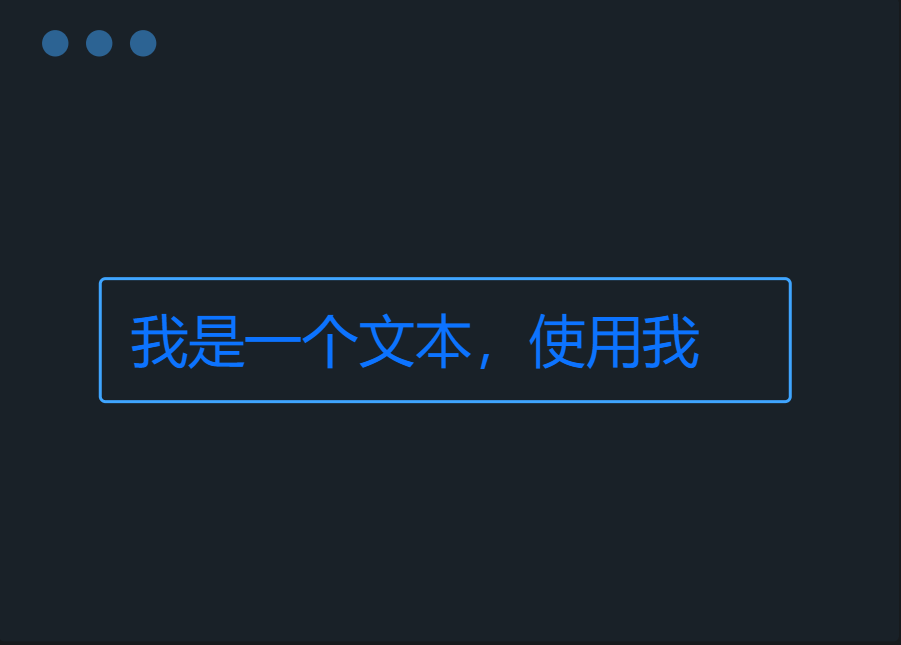
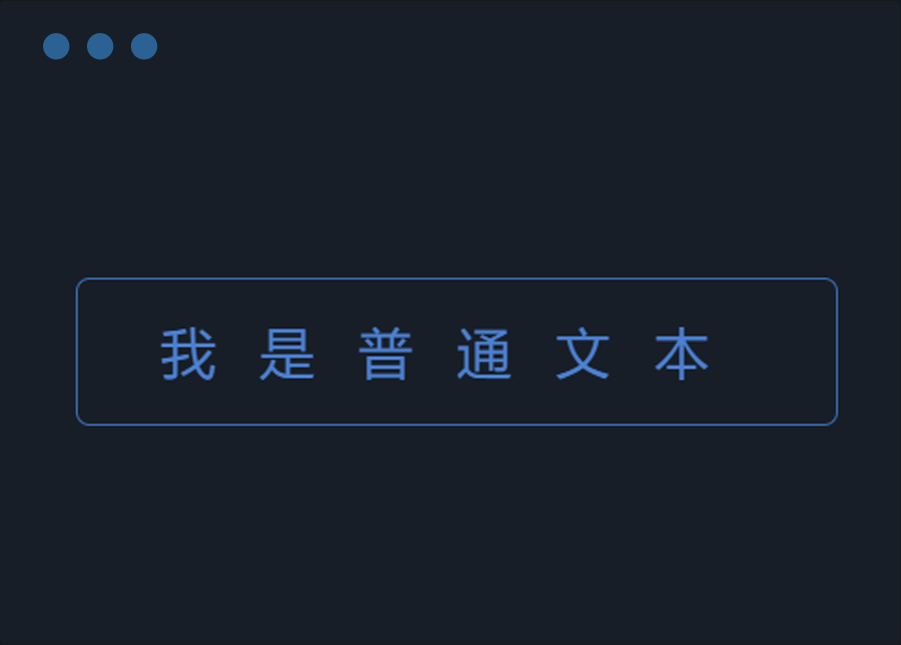
perf: 去除多余图片，修改展示图

Changed region(s): [[0.0622, 0.4031, 0.9323, 0.6822], [0.0622, 0.031, 0.1243, 0.093], [0.1554, 0.062, 0.1865, 0.093]]

diff --git a/src/packages/components/Decorates/Mores/index.ts b/src/packages/components/Decorates/Mores/index.ts
@@ -1,7 +1,4 @@
-import { WeatherConfig } from './Weather/index'
-import { TimeConfig } from './Time/index'
-import { WeatherTimeConfig } from './WeatherTime/index'
 import { NumberConfig } from './Number/index'
 import { TimeCommonConfig } from './TimeCommon/index'
 
-export default [WeatherConfig, TimeCommonConfig, TimeConfig, WeatherTimeConfig, NumberConfig]
+export default [TimeCommonConfig, NumberConfig]

diff --git a/src/packages/components/Tables/Tables/index.ts b/src/packages/components/Tables/Tables/index.ts
@@ -1,6 +1,4 @@
 import { TableListConfig } from './TableList'
-import { TableCommonConfig } from './TableCommon'
-import { TableCategoryConfig } from './TableCategory'
 import { TableScrollBoardConfig } from './TableScrollBoard'
 
-export default [TableListConfig, TableScrollBoardConfig, TableCommonConfig, TableCategoryConfig]
+export default [TableListConfig, TableScrollBoardConfig]

diff --git a/src/packages/components/Decorates/Mores/TimeCommon/index.ts b/src/packages/components/Decorates/Mores/TimeCommon/index.ts
@@ -1,4 +1,4 @@
-import image from '@/assets/images/chart/decorates/time-common.png'
+import image from '@/assets/images/chart/decorates/time.png'
 import { ConfigType, PackagesCategoryEnum } from '@/packages/index.d'
 import { ChatCategoryEnum,ChatCategoryEnumName } from '../../index.d'
 

diff --git a/src/packages/components/Decorates/Decorates/Decorates03/config.ts b/src/packages/components/Decorates/Decorates/Decorates03/config.ts
@@ -4,8 +4,9 @@ import { Decorates03Config } from './index'
 import cloneDeep from 'lodash/cloneDeep'
 
 export const option = {
+  dataset: '我是标题',
   textColor: '#fff',
-  textSize: 24,
+  textSize: 32,
   colors: ['#1dc1f5', '#1dc1f5'],
 }
 

diff --git a/src/packages/components/Informations/index.ts b/src/packages/components/Informations/index.ts
@@ -1,5 +1,4 @@
 import Texts from './Texts'
-import Titles from './Titles'
 import Mores from './Mores'
 
-export const InformationList = [...Texts, ...Titles, ...Mores]
+export const InformationList = [...Texts, ...Mores]
